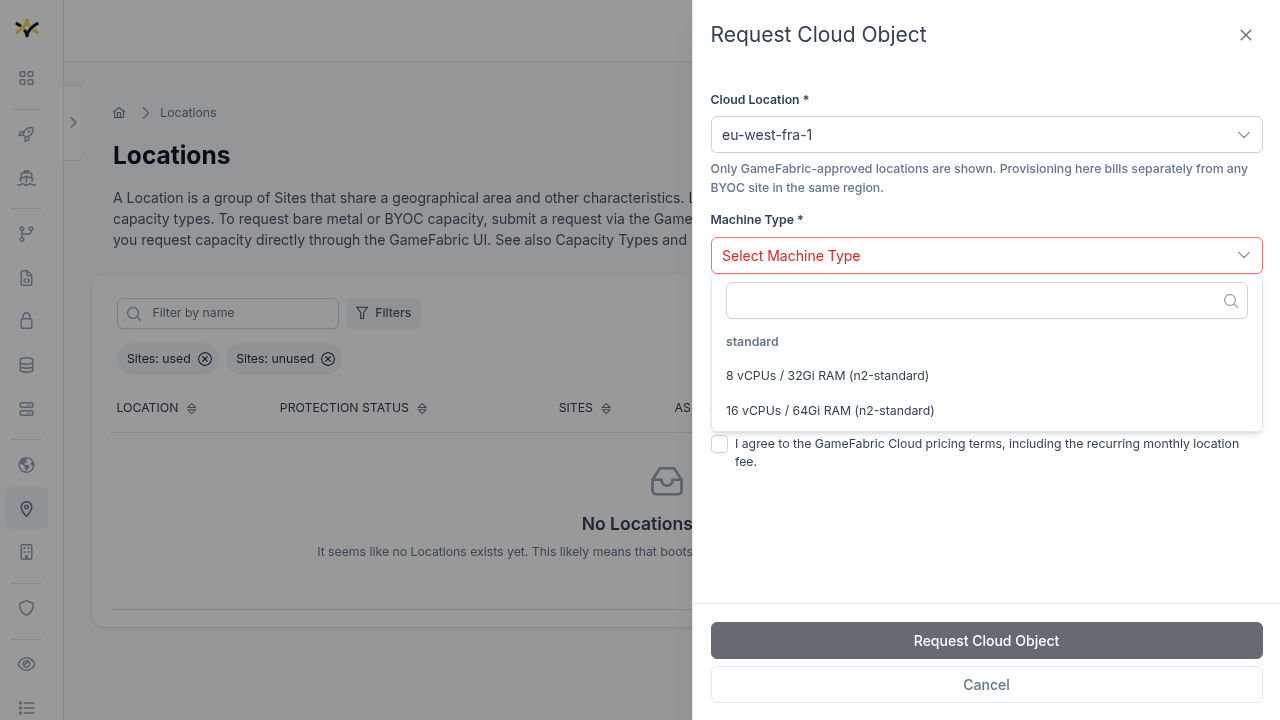
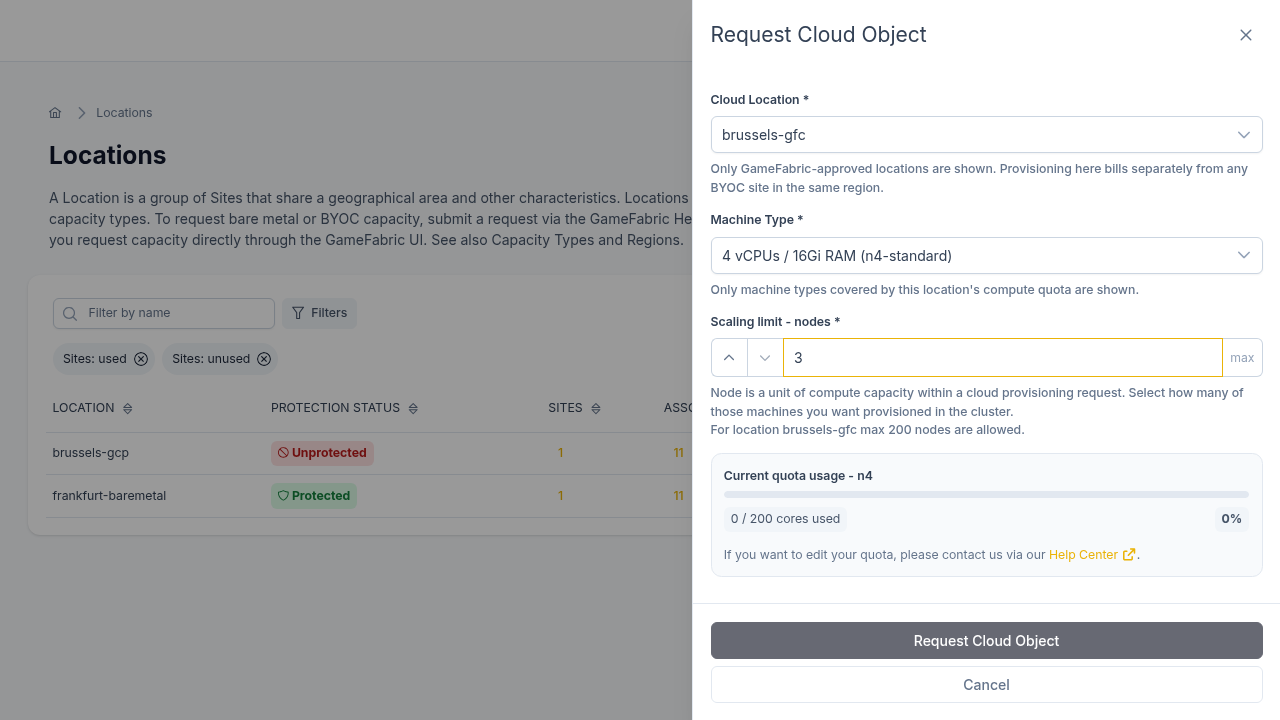
fix: new screenshot, updated text

diff --git a/src/multiplayer-servers/getting-started/gamefabric-cloud.md b/src/multiplayer-servers/getting-started/gamefabric-cloud.md
@@ -4,12 +4,12 @@ GameFabric Cloud enables self-service provisioning and deprovisioning of cloud c
 
 ## Provision a Cloud Location
 
-Cloud capacity is requested per Location. Each request specifies a machine type and a node count (the scaling limit). Multiple requests can be made per Location.
+Cloud capacity is requested per Location. Each request specifies a machine type and a node count (the scaling limit).
 
 Navigate to <span class="nbsp">**Capacity » Locations**</span> and either:
 
 - Click **Request Cloud** in the page header, or
-- Find a GameFabric Cloud Location and click **Manage Cloud** in its row, then click **Request Cloud Object**.
+- [Find a GameFabric Cloud Location](#find-managed-cloud-locations) and click **Manage Cloud** in its row.
 
 ![Locations list showing managed Location rows with the "Manage Cloud" button and the "Request Cloud" button in the page header](images/cloud/locations-overview.png)
 
@@ -22,23 +22,23 @@ Fill in the form:
 If a desired Location or Machine Type is not available, or when a Scaling Limit is not sufficient, contact the Help Center to request a quota change.
 See also [Quotas and other limitations](#quotas-and-other-limitations).
 
-![Request Cloud Object form showing the location selector, machine type selector, node count input, and pricing terms acknowledgement checkbox](images/cloud/manage-cloud-form.png)
+![Request Cloud Location form showing the location selector, machine type selector, node count input, and pricing terms acknowledgement checkbox](images/cloud/manage-cloud-form.png)
 
-Review the pricing terms, check the acknowledgement checkbox, and click **Request Cloud Object**.
+Review the pricing terms, check the acknowledgement checkbox, and click **Request Cloud Location**.
 
-The Cloud Object appears in the drawer and moves through the following states:
+The Cloud Location appears in the drawer and moves through the following states:
 
-| State            | Meaning                                                           |
-|------------------|-------------------------------------------------------------------|
-| `Pending`        | The request has been submitted and is queued                      |
-| `Provisioning`   | Infrastructure is being created                                   |
-| `Provisioned`    | Capacity is live and available for game server scheduling         |
-| `Deprovisioning` | Removal is in progress                                            |
-| `Error`          | Provisioning failed; the reason is shown on the Cloud Object card |
+| State            | Meaning                                                             |
+|------------------|---------------------------------------------------------------------|
+| `Pending`        | The request has been submitted and is queued                        |
+| `Provisioning`   | Infrastructure is being created                                     |
+| `Provisioned`    | Capacity is live and available for game server scheduling           |
+| `Deprovisioning` | Removal is in progress                                              |
+| `Error`          | Provisioning failed; the reason is shown on the Cloud Location card |
 
-Once `Provisioned`, Sites appear under the Location. Open **Manage Cloud** on a Location at any time to see all Cloud Objects as cards with their current state, machine type details, and scaling limit.
+Once `Provisioned`, Sites appear under the Location. Open **Manage Cloud** on a Location at any time to see all Cloud Locations as cards with their current state, machine type details, and scaling limit.
 
-![Manage Cloud drawer showing a Cloud Object card with its state tag, machine type details, and Decrease capacity and Remove action buttons](images/cloud/manage-cloud-list.png)
+![Manage Cloud drawer showing a Cloud Location card with its state tag, machine type details, and Decrease capacity and Remove action buttons](images/cloud/manage-cloud-list.png)
 
 ::: tip
 Ensure your Regions include the cloud Location so that newly provisioned capacity is used by your Armadas and Vessels automatically. See [Regions, Sites & Locations](/multiplayer-servers/architecture/regions-sites-and-locations).
@@ -46,10 +46,10 @@ Ensure your Regions include the cloud Location so that newly provisioned capacit
 
 ## Resize a Cloud Location
 
-You can reduce the node count of a `Provisioned` Cloud Object without removing it:
+You can reduce the node count of a `Provisioned` Cloud Location without removing it:
 
 1. Open **Manage Cloud** for the Location.
-2. Click **Decrease capacity** on the Cloud Object card.
+2. Click **Decrease capacity** on the Cloud Location card.
 3. Enter the new node count. It must be lower than the current count and at least 1.
 4. Accept the pricing terms checkbox.
 5. Click **Decrease Capacity**.
@@ -60,7 +60,7 @@ Editing to increase the node count is not supported, as capacity is already boun
 To get more capacity of the same machine type at a Location, request an additional Cloud Location at the same Location.
 
 ::: warning
-Downsizing is blocked while a deprovisioning is scheduled for the Cloud Object.
+Downsizing is blocked while a deprovisioning is scheduled for the Cloud Location.
 :::
 
 ## Deprovision a Cloud Location
@@ -73,7 +73,7 @@ To remove a Cloud Location and deprovision the underlying infrastructure:
 4. Accept the consent checkbox confirming the removal is permanent.
 5. Click **Remove Cloud Location**.
 
-![Remove Cloud Object dialog showing the Immediate and Delayed deprovisioning options, the delay hours input (with Delayed selected), and the consent checkbox](images/cloud/remove-cloud-dialog.png)
+![Remove Cloud Location dialog showing the Immediate and Delayed deprovisioning options, the delay hours input (with Delayed selected), and the consent checkbox](images/cloud/remove-cloud-dialog.png)
 
 ### Deprovision modes
 
@@ -111,12 +111,7 @@ Capacity cannot be added at Locations already provisioned through <span class="n
 
 ## Required permissions
 
-Managing Cloud Objects requires the following capabilities in the `provisioning` API group:
+To provision a Cloud Location, a user must have `post` capability on the `clouds` resource in the `provisioning/v1beta2` API group.
+To resize or deprovision a Cloud Location, `patch` and `put` capabilities are required, where as deprovision also requires `delete` capability.
 
-| Action                       | Required capability |
-|------------------------------|---------------------|
-| Request a Cloud Object       | `clouds: post`      |
-| Downsize or schedule removal | `clouds: patch`     |
-| Remove a Cloud Object        | `clouds: delete`    |
-
-If the **Manage Cloud** button is not visible on a Location row, your Role does not include the necessary capabilities. Contact your account administrator.
+If the **Manage Cloud** button is not clickable on a Location row, your Role does not include the necessary capabilities.
